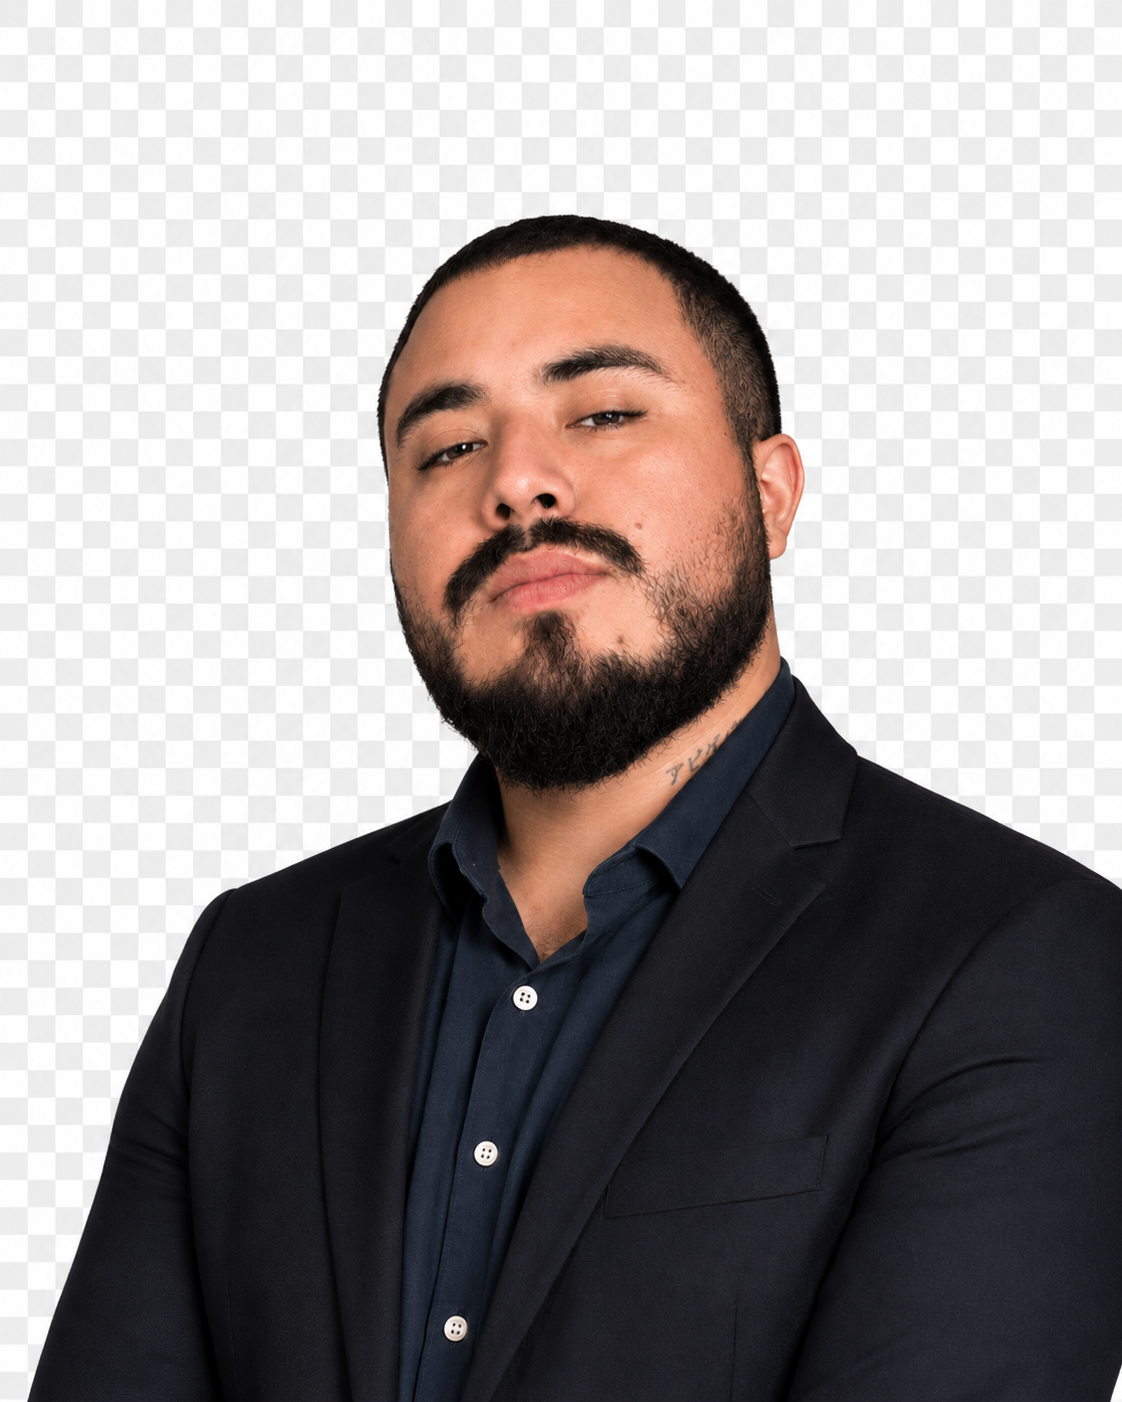
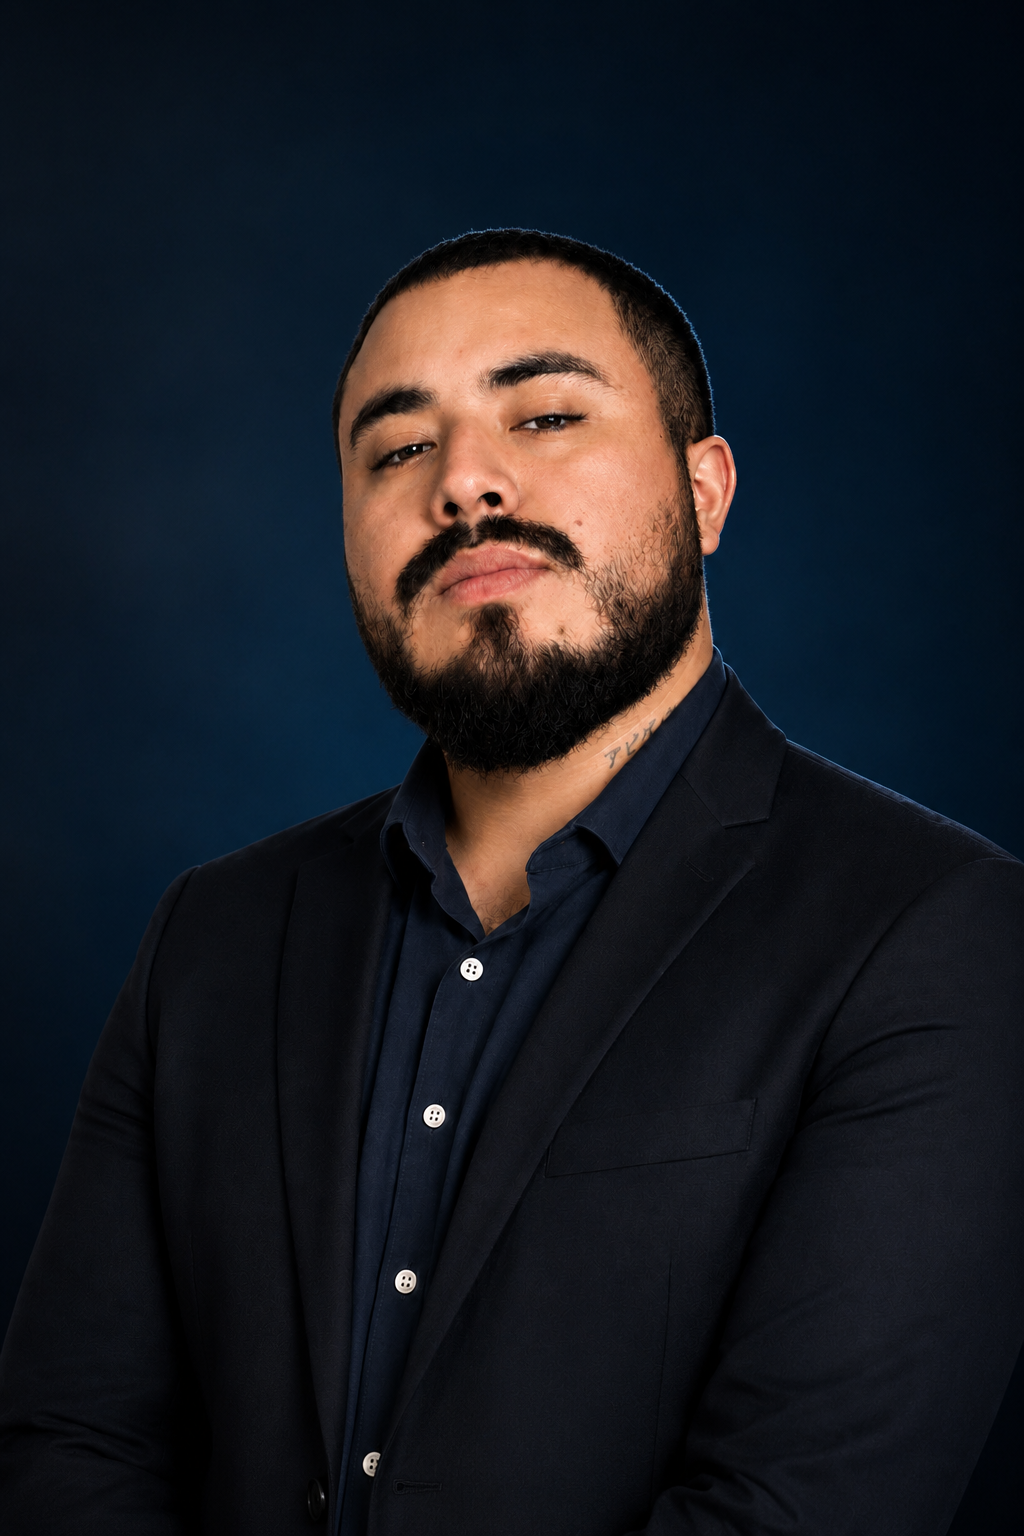
polish landing visuals and responsive details

diff --git a/src/content/itpro.es.ts b/src/content/itpro.es.ts
@@ -100,8 +100,8 @@ export const itproContent = {
       "Seguimiento de clientes, pedidos, documentación y flujo interno.",
       "Administración, soporte remoto y mejora continua.",
     ],
-    note:
-      "La información pública se mantiene enfocada en el alcance general del acompañamiento, sin precios, métricas, credenciales ni datos operativos sensibles.",
+      // Nota interna: no publicar precios, métricas, credenciales,
+      // capturas privadas, configuraciones sensibles ni datos operativos internos.
   },
 
   technology: {
